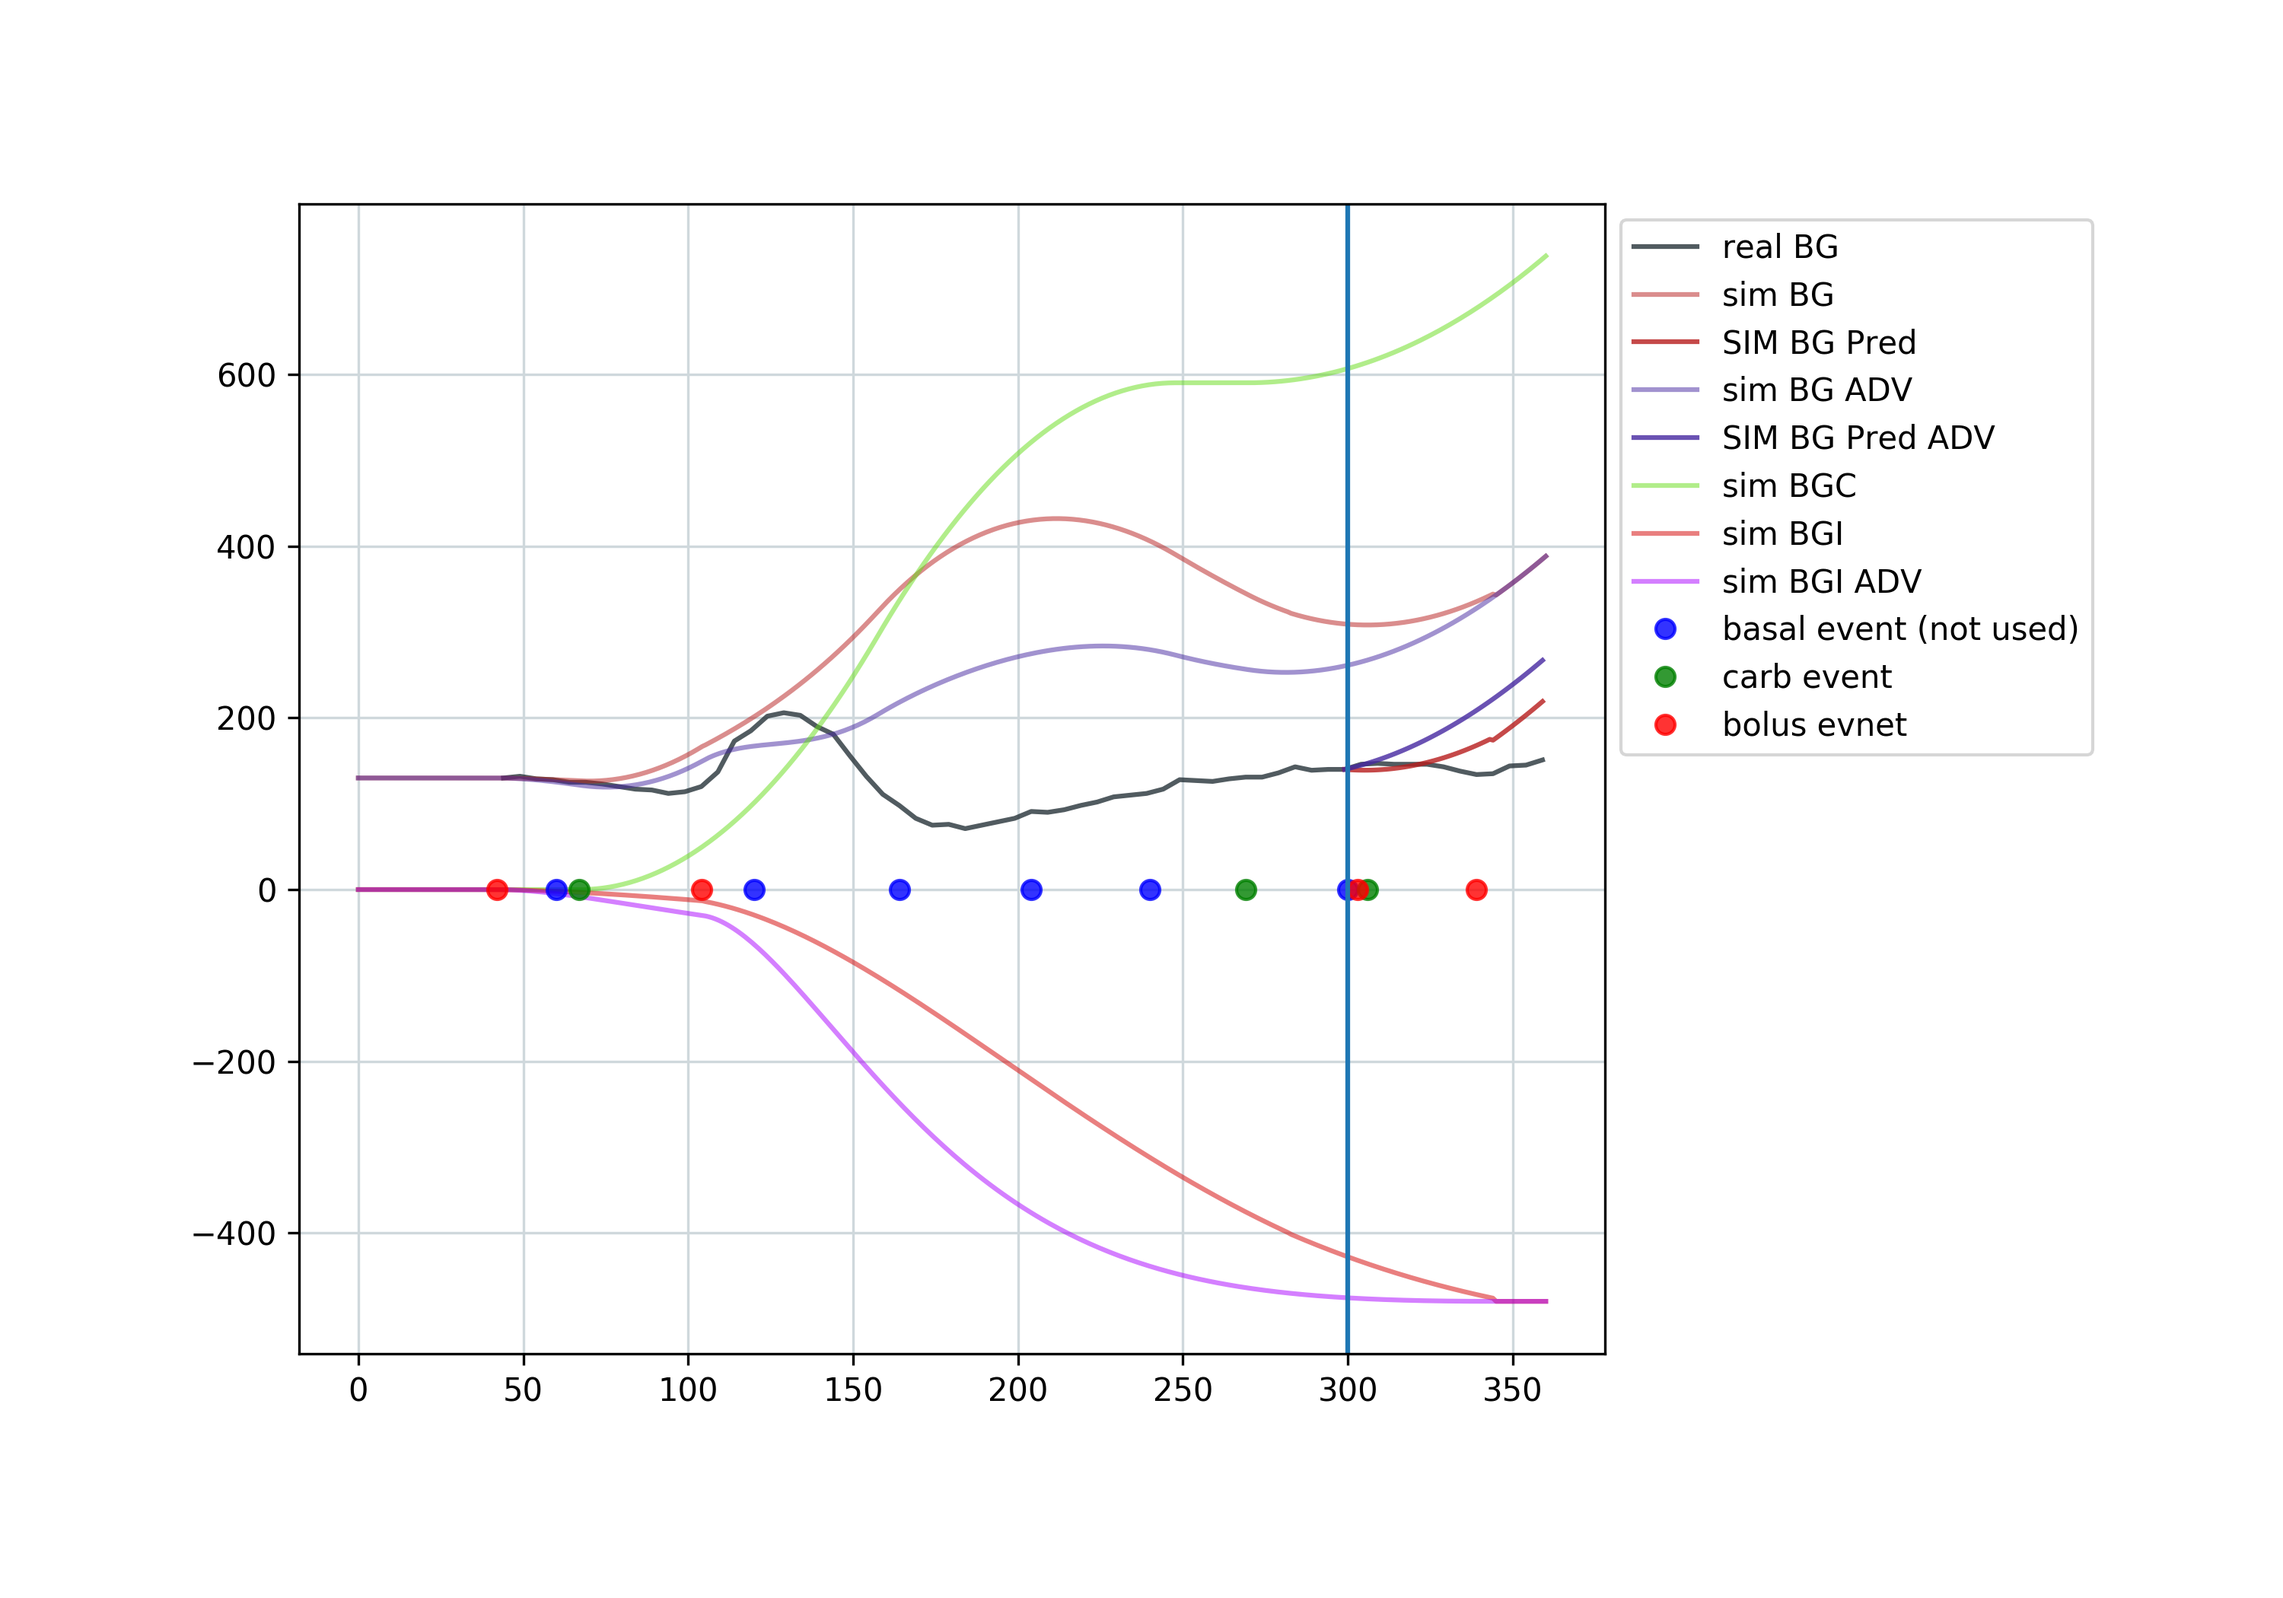
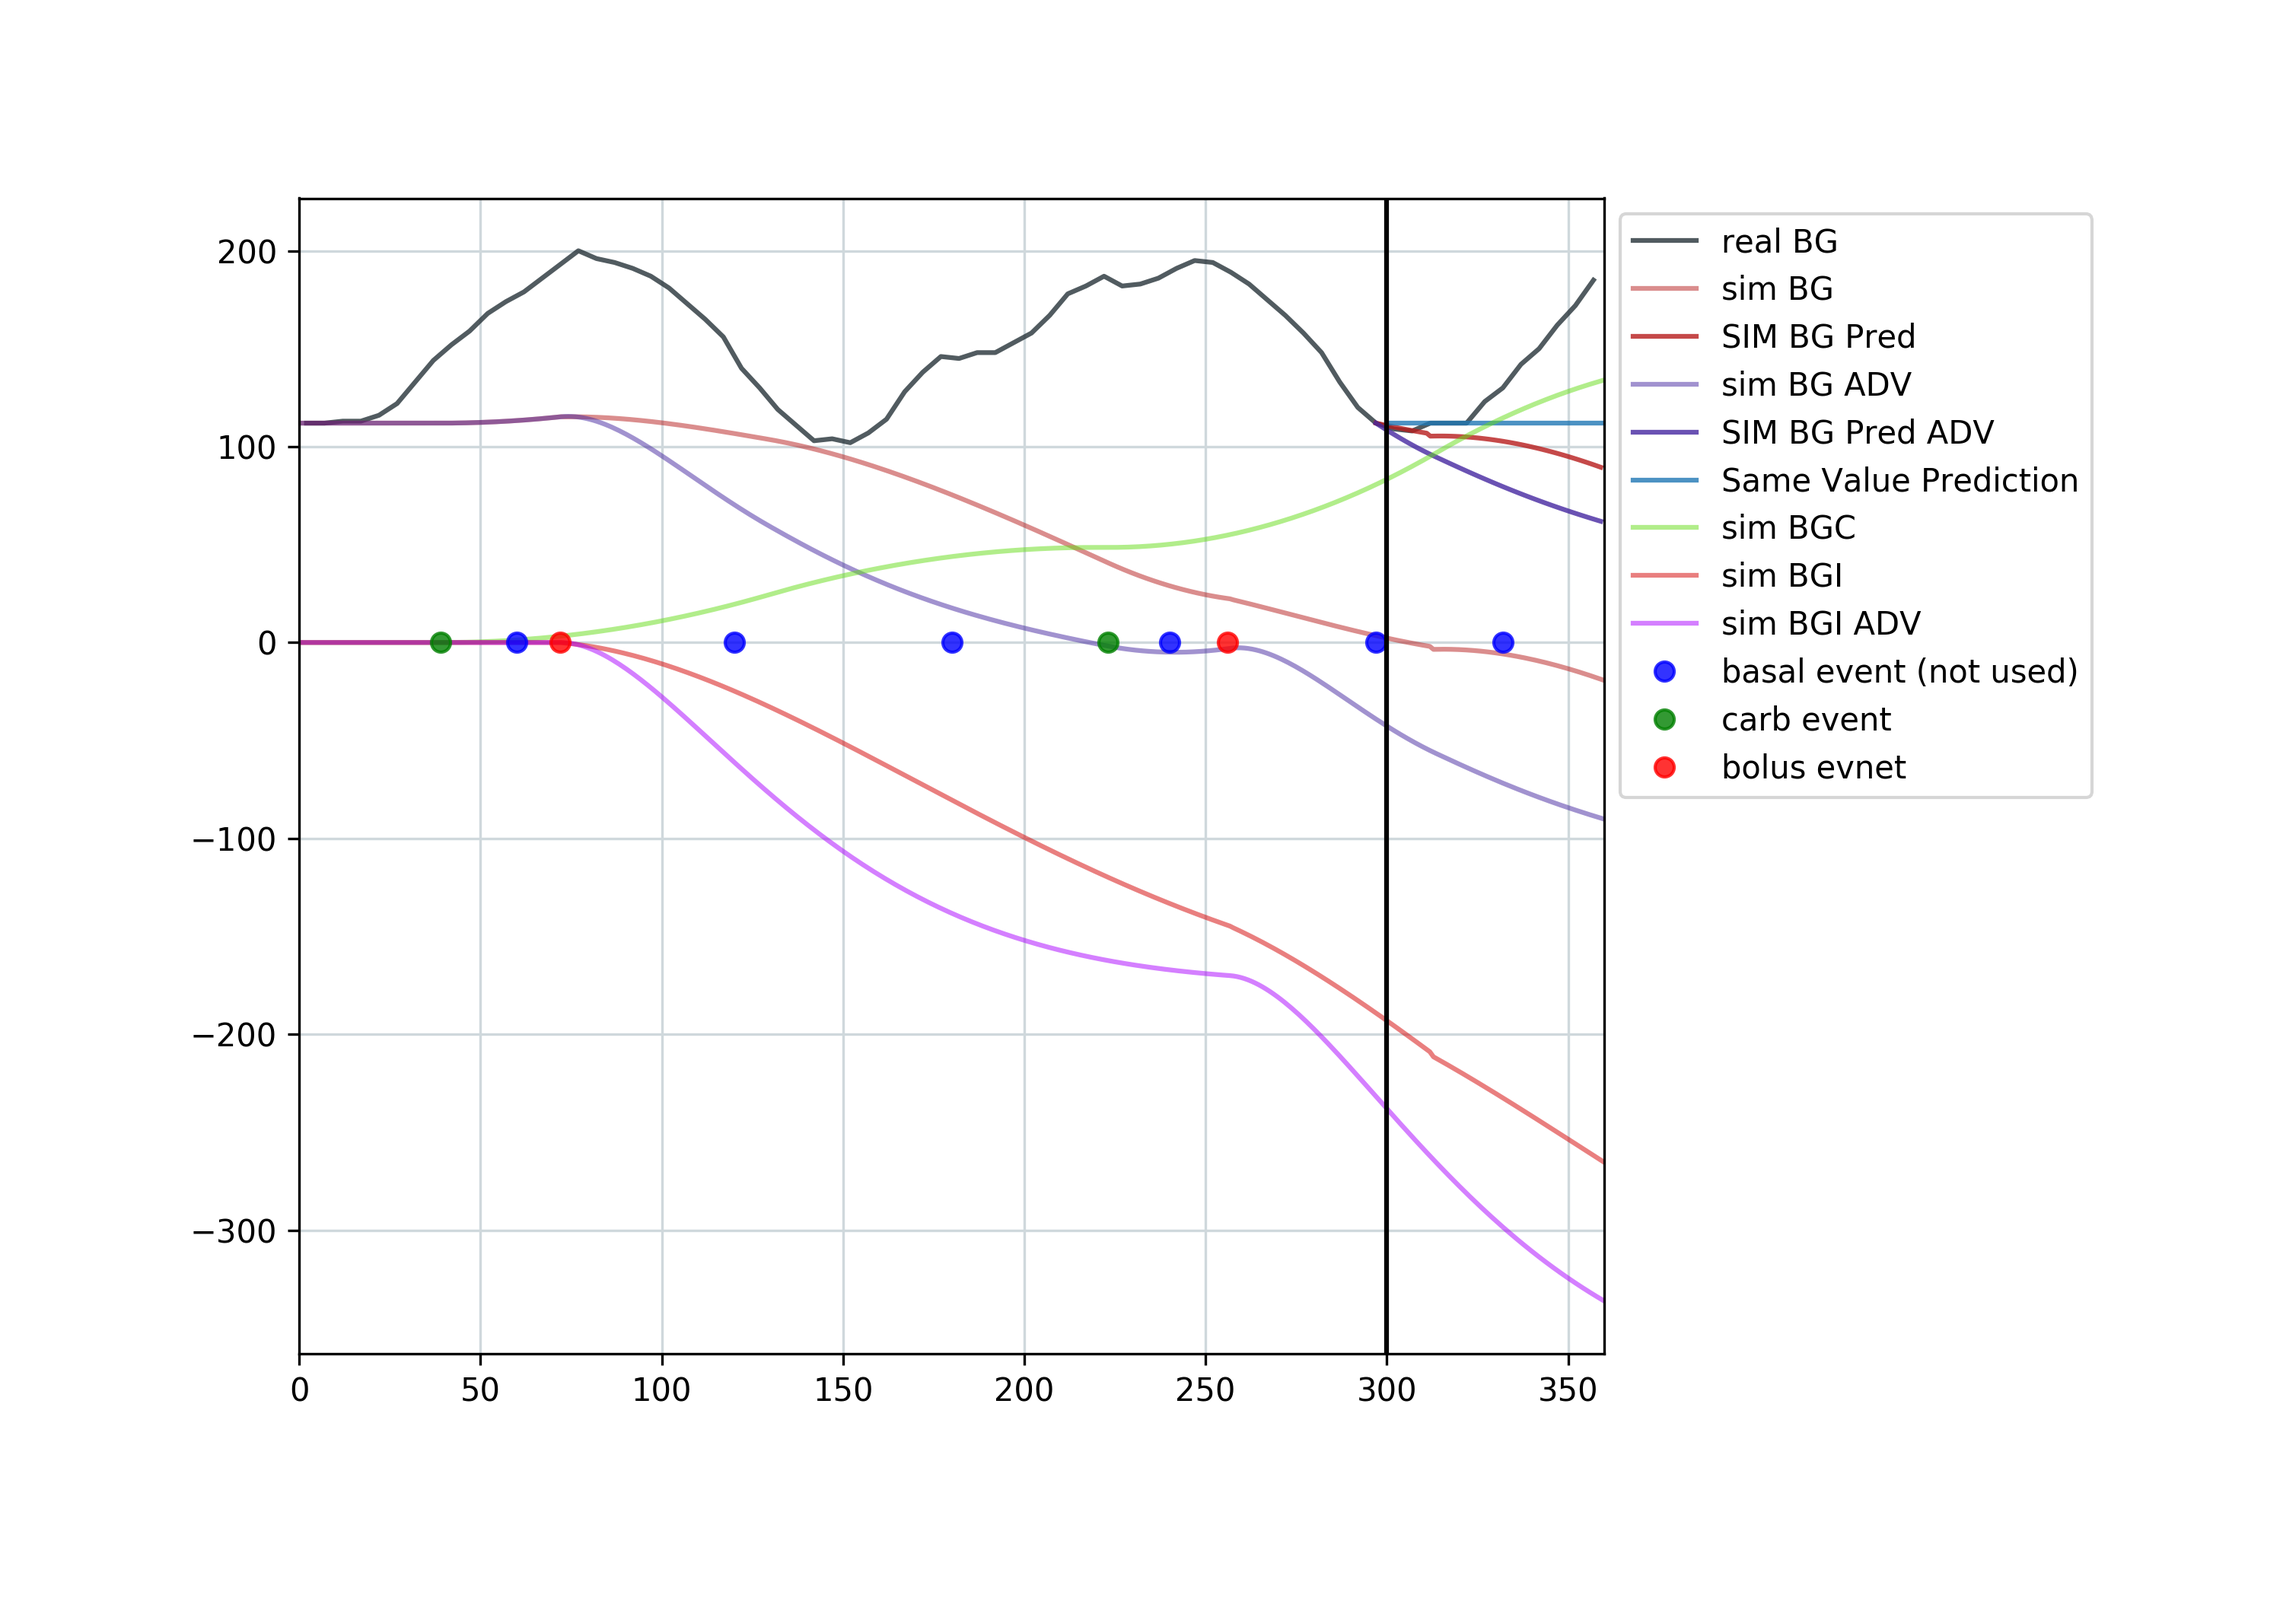
added same value prediction

diff --git a/Python/check.py b/Python/check.py
@@ -74,6 +74,8 @@ def getTimeDelta(row, start):
 
 def getClosestIndex(cgmX, number):
     res = 0
+    logger.debug("cgmX last" + str(cgmX[len(cgmX) -1 ]))
+    logger.debug("number " + str(number))
     while cgmX[res] <= number:
         res += 1
     return res - 1
@@ -128,12 +130,18 @@ def checkCurrent(data, udata, startTime):
 
     plt.figure(figsize=(10, 7))
     plt.grid(color="#cfd8dc")
+    plt.xlim(0,udata.simlength * 60)
+
     plt.plot(cgmX, cgmY, "#263238", alpha=0.8, label="real BG")
 
     plt.plot(data[3], data[0], "#b71c1c", alpha=0.5, label="sim BG")
     plt.plot(range(int(cgmX[index]), len(data[3])), prediction_vals, "#b71c1c", alpha=0.8, label="SIM BG Pred")
     plt.plot(data[3], data[5], "#4527a0", alpha=0.5, label="sim BG ADV")
     plt.plot(range(int(cgmX[index]), len(data[3])), prediction_vals_adv, "#4527a0", alpha=0.8, label="SIM BG Pred ADV")
+
+    # vertical prediction
+    plt.axhline(y = prediction_vals[0], xmin=5/6,alpha=0.8, label="Same Value Prediction")
+
 
     plt.plot(data[3], data[1], "#64dd17", alpha=0.5, label="sim BGC")
     plt.plot(data[3], data[2], "#d50000", alpha=0.5, label="sim BGI")
@@ -150,7 +158,7 @@ def checkCurrent(data, udata, startTime):
 
     plt.legend(loc=2, bbox_to_anchor=(1, 1))
     plt.tight_layout(pad=6)
-    plt.axvline(x=(udata.simlength - 1) * 60)
+    plt.axvline(x=(udata.simlength - 1) * 60, color="black")
     plt.savefig("result.png", dpi=300)
 
 

diff --git a/Python/main.py b/Python/main.py
@@ -30,8 +30,14 @@ def plt(udata):
 # makes a 1 hour prediction based on a 5 hour data set. it will generate a plot to show prediction in result.png
 def mainPredict(data, userdata):
     # select date and start time for prediction
-    data = data[data['date'] == "15.12.17"]
-    start = "15.12.17,10:00"
+    date = "21.12.17"
+    time = "16:00"
+    autotune_res = autotune.getSensAndCR(date)
+    userdata.cratio = autotune_res["cr"]
+    logger.info(autotune_res)
+    userdata.sensf = autotune_res["sens"][0]["sensitivity"]
+    data = data[data['date'] == date]
+    start = date+","+time
     res = checkCurrent(data, userdata, start)
 
 
@@ -69,9 +75,9 @@ def main():
     logger.debug("set user data")
     udata = UserData(bginitial=100.0, cratio=5, idur=4, inputeeffect=None, sensf=41, simlength=6, stats=None)
     logger.debug("Prep glucose and insulin history for autotune as json")
-    autotune_prep.prep_for_autotune(data)
+    #autotune_prep.prep_for_autotune(data)
     logger.debug("Run autotune")
-    autotune.run_autotune(data)
+    #autotune.run_autotune(data)
     logger.debug("Run Prediciton")
     mainPredict(data, udata)
    # predictFast(data, udata)
